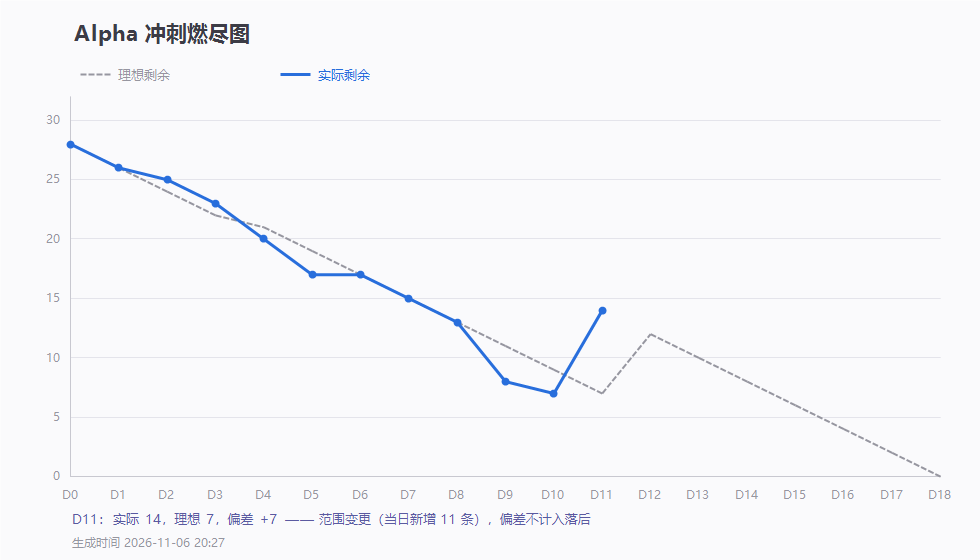
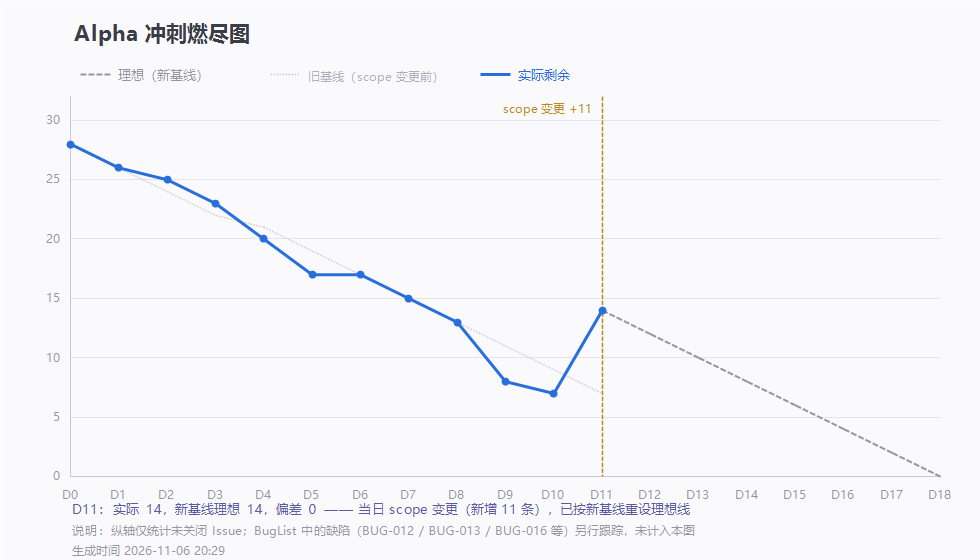
fix: 燃尽图改双基线——旧理想线停在 scope 变更点，新理想线从 14 起算到 D18；理想线不再中途上翘 (#3)

diff --git a/docs/Alpha延展段-D12-D18计划.md b/docs/Alpha延展段-D12-D18计划.md
@@ -180,20 +180,24 @@ D11 晚我原本准备收 Alpha，老师给了明确反馈：
 - 新基线 **37 条**；D11 收工时未关闭 **14 条**
 - 注：GitHub 上编号已排到 **#48**（共 41 条），其中 **#47 / #48 当晚作废**、**#36 / #37 已并入** BugList 与 #38/#40 前置 —— 这 4 条虽显示「已关闭」，**不算完成数**，对外汇报完成量时不要拿 27 去说
 
-理想线从 D12 起重设：**把 14 条在 7 天内烧到 0**，即每天 2 条。
+理想线从 **D11 起重设**（起点 14 条），7 个工作日烧到 0，即每天 2 条。
 
-| 工作日 | 理想剩余 |
-|---|---|
-| D12 | 12 |
-| D13 | 10 |
-| D14 | 8 |
-| D15 | 6 |
-| D16 | 4 |
-| D17 | 2 |
-| D18 | 0 |
+| 工作日 | 新基线理想 | 旧基线理想（仅历史对照） |
+|---|---|---|
+| D11 | 14 | 7 |
+| D12 | 12 | — |
+| D13 | 10 | — |
+| D14 | 8 | — |
+| D15 | 6 | — |
+| D16 | 4 | — |
+| D17 | 2 | — |
+| D18 | 0 | — |
 
-> 口径说明：燃尽度量的是**未关闭 issue 数**。D11 从 5 条升到 14 条，是老师要求扩范围导致的 scope 变更，**不是退步**；图上这条阶跃保留并注明原因，不重画历史。
-> ⚠ 注意：BUG-016 / BUG-012 / BUG-013 走 BugList 后**不进燃尽计数**，但工作照样要做——**别因为图上好看就当它们不存在**。
+> **画法说明（11-06 晚修正）**：燃尽图用**双基线**——旧理想线（点线）停在 D11，标出「scope 变更前原本的计划」；新理想线（虚线）从 D11=14 起算到 D18=0。这样两条线各自单调递减，不会出现「理想线先降后升」的假图。
+> 早期版本把 D11 理想写成旧基线的 7、D12 又跳到 12，导致理想线中途上翘——那是画错了，已修。
+>
+> 口径说明：燃尽度量的是**未关闭 issue 数**。D11 从 5 条升到 14 条，是老师要求扩范围导致的 scope 变更，**不是退步**。
+> ⚠ BUG-016 / BUG-012 / BUG-013 走 BugList 后**不进燃尽计数**，但工作照样要做——**别因为图上好看就当它们不存在**。
 
 ---
 
